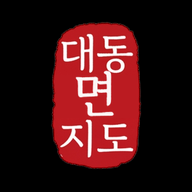
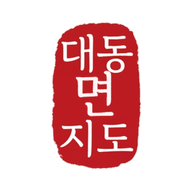
앱 아이콘 배경 흰색으로
Claude-Session: https://claude.ai/code/session_0198PrGiwJxjTatieSaqvDXC

diff --git a/index.html b/index.html
@@ -3,8 +3,8 @@
 <meta name="viewport" content="width=device-width,initial-scale=1,maximum-scale=1,user-scalable=no">
 <title>대동면지도</title>
 <link rel="manifest" href="manifest.webmanifest">
-<link rel="icon" type="image/png" href="icon-192.png?v=4">
-<link rel="apple-touch-icon" href="apple-touch-icon.png?v=4">
+<link rel="icon" type="image/png" href="icon-192.png?v=5">
+<link rel="apple-touch-icon" href="apple-touch-icon.png?v=5">
 <meta name="apple-mobile-web-app-capable" content="yes">
 <meta name="mobile-web-app-capable" content="yes">
 <meta name="apple-mobile-web-app-title" content="대동면지도">

diff --git a/sw.js b/sw.js
@@ -1,4 +1,4 @@
-const V='daedong-v12';
+const V='daedong-v13';
 const CORE=['./','index.html','manifest.webmanifest','icon-192.png','icon-512.png','apple-touch-icon.png','splash.jpg','logo.png'];
 self.addEventListener('install',e=>{e.waitUntil(caches.open(V).then(c=>c.addAll(CORE)).then(()=>self.skipWaiting()))});
 self.addEventListener('activate',e=>{e.waitUntil(caches.keys().then(ks=>Promise.all(ks.filter(k=>k!==V).map(k=>caches.delete(k)))).then(()=>self.clients.claim()))});
